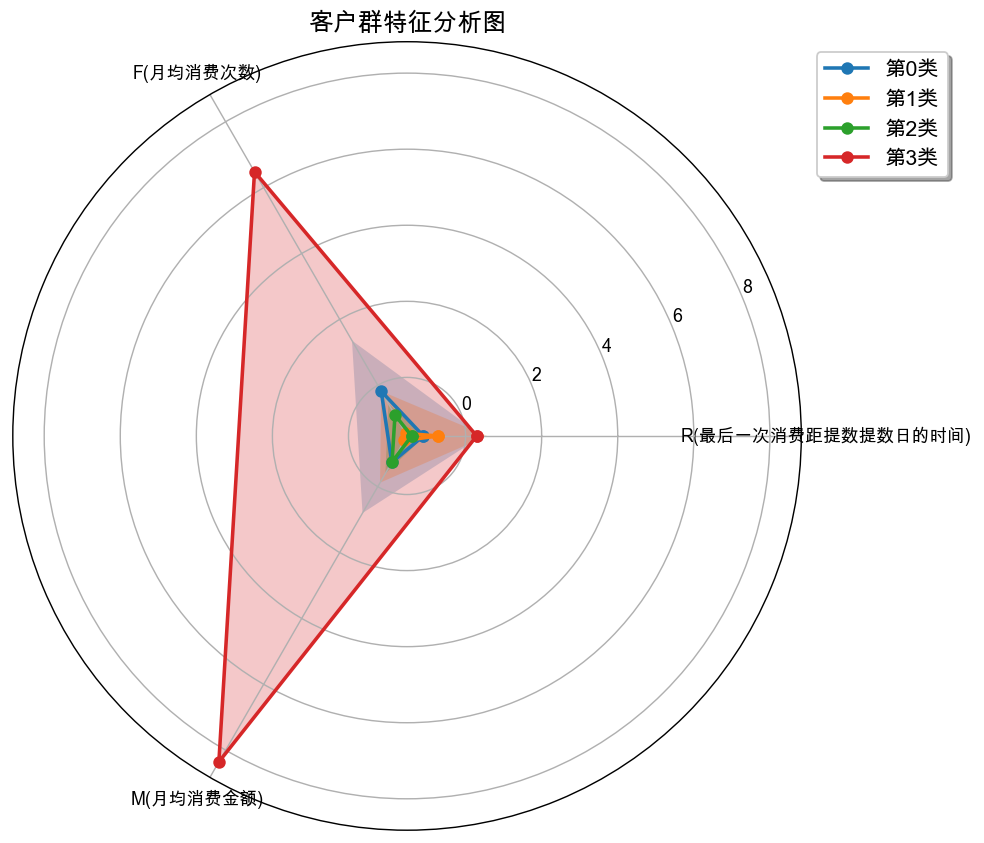
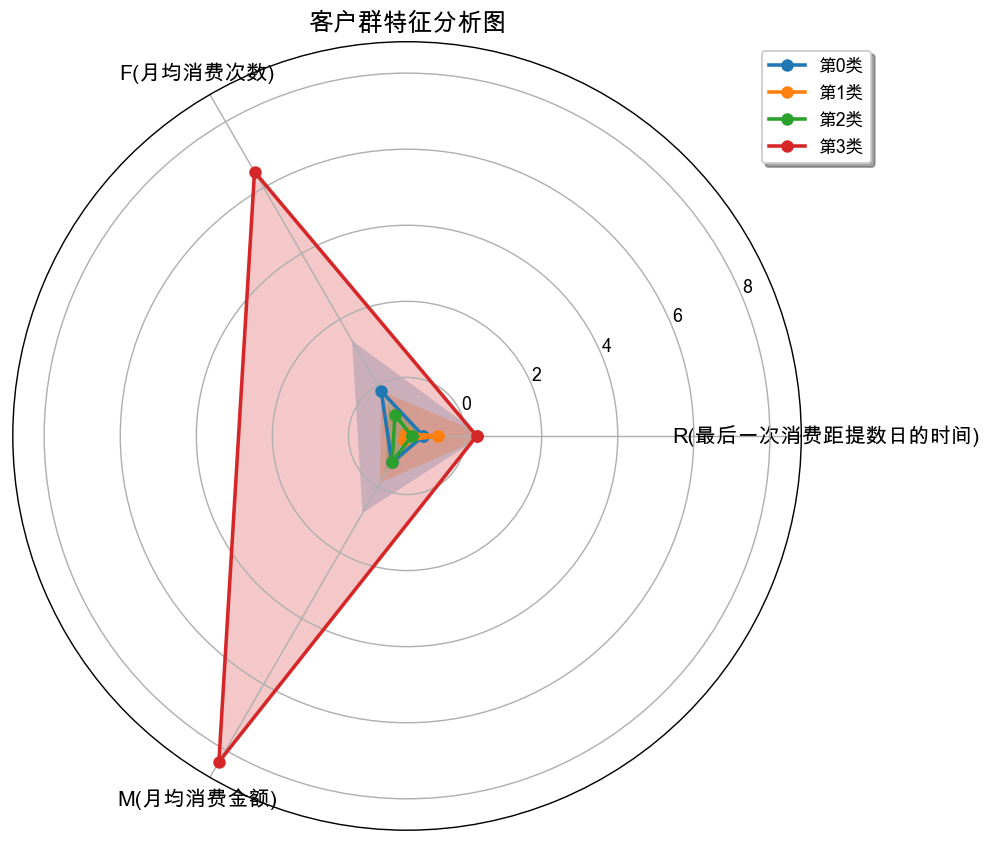
调整极坐标轴字体字号，标题位置，图例位置，图例拼接字符串

diff --git a/UTM/7.11.4.py b/UTM/7.11.4.py
@@ -119,12 +119,18 @@ labels = np.concatenate((labels,[labels[0]]))   # 新版本增加，对labels进
 for i in range(len(num_sets)):  # 循环每个类别
     data_tmp = num_sets_max_min[i, :]  # 获得对应类数据
     data = np.concatenate((data_tmp, [data_tmp[0]]))  # 建立相同首尾字段以便于闭合
-    ax.plot(angles, data, 'o-', c=cor_list[i], label=i)  # 画线
+    legend_label = '第{}类'.format(i)  # Concatenate legend label
+    ax.plot(angles, data, 'o-', c=cor_list[i], label=legend_label)  # 画线
 
 # part4 设置图像显示格式
-ax.set_thetagrids(angles * 180 / np.pi, labels, fontproperties="Arial Unicode MS")  # 设置极坐标轴
-ax.set_title("广告各聚类类别显著特征图", fontproperties="Arial Unicode MS")  # 设置标题放置
+# ax.tick_params(axis='x', labelsize=10)  # 设置极坐标值的字体大小
+ax.set_thetagrids(angles * 180 / np.pi, labels, fontproperties="Arial Unicode MS", fontsize=10)  # 设置极坐标轴
+ax.set_title("广告各聚类类别显著特征图",y=1.0, fontproperties="Arial Unicode MS", fontsize=12)  # y参数来调整标题的垂直位置
 ax.set_rlim(-0.2, 1.2)  # 设置坐标轴尺度范围
-plt.legend(loc=0)  # 设置图例位置
-plt.savefig('./广告各聚类类别显著特征图')
+
+# plt.legend(loc=0)  # 设置图例位置
+legend = plt.legend(loc='upper left', bbox_to_anchor=(-0.1, 1), shadow=True, prop={'family': 'Arial Unicode MS'})  # loc设置图例大概位置；bbox_to_anchor将图例的位置微调，第一个参数表示 x 轴上的偏移量，负值表示向左移动，调整此值可以将图例向左移动；shadow阴影边缘；prop指定图例字体
+for text in legend.get_texts():
+    text.set_fontsize(10)  # 设置图例字号大小
+plt.savefig('./广告各聚类类别显著特征图', dpi=128, bbox_inches='tight')                                    #保存图形，指定bbox_inches来裁剪图形多余空白区域
 plt.show()

diff --git a/K-Means/matlab.py b/K-Means/matlab.py
@@ -102,11 +102,15 @@ for i, v in enumerate(center_num):
     ax.fill(angles, center, alpha=0.25)                              #填充颜色
 
     ang = angles * 180/np.pi                                         #添加每个特征的标签
-    ax.set_thetagrids(ang[:-1], feature)                             #添加每个特征的标签
+    ax.set_thetagrids(ang[:-1], feature, fontproperties="Arial Unicode MS", fontsize=12)                      #设置极坐标轴
 
-    plt.title('客户群特征分析图', fontsize=14)                          #添加标题
+    plt.title('客户群特征分析图',y=1.0, fontproperties="Arial Unicode MS", fontsize=14)                          #添加标题
     ax.grid()                                                        #添加网格线
-    plt.legend(loc='upper right', bbox_to_anchor=(1.2, 1.0), shadow=True, fontsize=12)   #设置图例
+    # plt.legend(loc='upper right', bbox_to_anchor=(1.1, 1.0), shadow=True, fontsize=12)   #设置图例
+    legend = plt.legend(loc='upper right', bbox_to_anchor=(1.1, 1.0), shadow=True, prop={
+        'family': 'Arial Unicode MS'})  # loc设置图例大概位置；bbox_to_anchor将图例的位置微调，第一个参数表示 x 轴上的偏移量，负值表示向左移动，调整此值可以将图例向左移动；shadow阴影边缘；prop指定图例字体
+    for text in legend.get_texts():
+        text.set_fontsize(10)  # 设置图例字号大小
     plt.savefig('./data/客户群特征分析图', dpi=128, bbox_inches='tight')                    #保存图形，指定bbox_inches来裁剪图形多余空白区域
 
 # 显示图形
